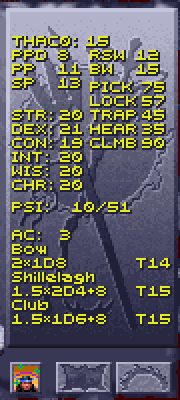
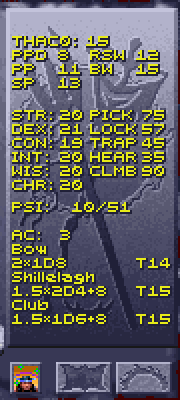
Fresh THAC0 and saves on every redraw, thief skills level with STR, Options tab
Before the inventory or View Character screen is drawn, DSCLOG (now DSCLOGvB)
asks the Ledger to bring the party's THAC0 and saves up to date and waits for
the answer (half a second at most, and only while the Ledger is running), so
putting on a ring or readying a weapon shows in the same redraw. The thief
skills sit level with STR to WIS. The Ledger's switches move to an Options tab
(Alt+O), leaving the Dice log tab to the log.

Claude-Session: https://claude.ai/code/session_01BNiWkhyZSJPYsN3zRrweVp

Changed region(s): [[0.5, 0.18, 0.9444, 0.45]]

diff --git a/darksun-companion/dscompanion/viewer.py b/darksun-companion/dscompanion/viewer.py
@@ -133,32 +133,9 @@ class Viewer:
         ttk.Button(row, text="Clear", command=lambda: self.dice_text.delete("1.0", "end")).pack(side="right")
         ttk.Button(row, text="Save...", command=lambda: self.save_text(self.dice_text, "dice log")).pack(
             side="right", padx=4)
-        self.show_all = tk.BooleanVar(value=False)
-        ttk.Checkbutton(dice, text="Show unlabelled rolls", variable=self.show_all).pack(anchor="w", pady=(4, 0))
-        # the indented lines under a roll (what a THAC0 or save was made of); hiding them leaves
-        # the rolls, results, turns and HP
-        self.show_details = tk.BooleanVar(value=True)
-        ttk.Checkbutton(dice, text="Show details (the sums behind each roll)", variable=self.show_details,
-                        command=lambda: self.dice_text.tag_configure("detail", elide=not self.show_details.get())
-                        ).pack(anchor="w", pady=(4, 0))
-        # the game's own window, at the end of each turn in a fight: that turn's rolls
-        settings = launch.load_settings()
-        self.popups = tk.BooleanVar(value=bool(settings.get("turn_popups", True)))
-        ttk.Checkbutton(dice, text="Show each turn's rolls in the game (click Continue to go on)",
-                        variable=self.popups, command=self._popups_changed).pack(anchor="w", pady=(4, 0))
-        self.popup_detail = tk.BooleanVar(value=settings.get("turn_popups_detail", True))
-        ttk.Checkbutton(dice, text="... in detail, as in the log (MORE shows the next lines)",
-                        variable=self.popup_detail, command=self._popups_changed).pack(anchor="w", padx=(20, 0))
-        # the game's Look box, on a monster in a fight: what hurts it, then all of it in a window
-        self.monster_info = tk.BooleanVar(value=bool(settings.get("monster_info", True)))
-        ttk.Checkbutton(dice, text="Describe monsters when you Look at them in a fight (defences, then a window)",
-                        variable=self.monster_info, command=self._popups_changed).pack(anchor="w", pady=(4, 0))
-        # the companion's own item: a Ring +1 on the dead prisoner in the arena (ring.py)
-        self.arena_ring = tk.BooleanVar(value=bool(settings.get("arena_ring", True)))
-        ttk.Checkbutton(dice, text="Put a Ring +1 (+1 AC, +1 on saves) on the dead prisoner in the arena",
-                        variable=self.arena_ring, command=self._popups_changed).pack(anchor="w", pady=(4, 0))
+        # (the switches are on the Options tab, leaving this one to the log)
         self.dice_status = tk.StringVar(value="Waiting for the game...")
-        ttk.Label(dice, textvariable=self.dice_status).pack(fill="x", pady=(4, 0))
+        ttk.Label(row, textvariable=self.dice_status).pack(side="left", fill="x")
         # the round's order stays here while the log scrolls on: who acts now, who is still to come
         self.round_line = tk.StringVar(value="")
         self.round_label = ttk.Label(dice, textvariable=self.round_line, style="Status.TLabel", wraplength=900,
@@ -280,7 +257,41 @@ class Viewer:
         self.hex.tag_configure("selected", background=theme.PSI_BLUE, foreground=theme.SHADOW)
         self.hex.bind("<Button-1>", self.on_hex_click)
 
+        self._build_options(tabs)
         self._apply_layout()
+
+    def _build_options(self, tabs: ttk.Notebook) -> None:
+        """The Options tab: what the dice log shows, and what the Ledger adds to the game."""
+        options = ttk.Frame(tabs, padding=6)
+        tabs.add(options, text="Options", underline=0)
+        settings = launch.load_settings()
+        log = ttk.LabelFrame(options, text="Dice log", padding=6)
+        log.pack(fill="x")
+        self.show_all = tk.BooleanVar(value=False)
+        ttk.Checkbutton(log, text="Show unlabelled rolls", variable=self.show_all).pack(anchor="w")
+        # the indented lines under a roll (what a THAC0 or save was made of); hiding them leaves
+        # the rolls, results, turns and HP
+        self.show_details = tk.BooleanVar(value=True)
+        ttk.Checkbutton(log, text="Show details (the sums behind each roll)", variable=self.show_details,
+                        command=lambda: self.dice_text.tag_configure("detail", elide=not self.show_details.get())
+                        ).pack(anchor="w", pady=(4, 0))
+        in_game = ttk.LabelFrame(options, text="In the game (when started with the dice log)", padding=6)
+        in_game.pack(fill="x", pady=(8, 0))
+        # the game's own window, at the end of each turn in a fight: that turn's rolls
+        self.popups = tk.BooleanVar(value=bool(settings.get("turn_popups", True)))
+        ttk.Checkbutton(in_game, text="Show each turn's rolls in the game (click Continue to go on)",
+                        variable=self.popups, command=self._popups_changed).pack(anchor="w")
+        self.popup_detail = tk.BooleanVar(value=settings.get("turn_popups_detail", True))
+        ttk.Checkbutton(in_game, text="... in detail, as in the log (MORE shows the next lines)",
+                        variable=self.popup_detail, command=self._popups_changed).pack(anchor="w", padx=(20, 0))
+        # the game's Look box, on a monster in a fight: what hurts it, then all of it in a window
+        self.monster_info = tk.BooleanVar(value=bool(settings.get("monster_info", True)))
+        ttk.Checkbutton(in_game, text="Describe monsters when you Look at them in a fight (defences, then a window)",
+                        variable=self.monster_info, command=self._popups_changed).pack(anchor="w", pady=(4, 0))
+        # the companion's own item: a Ring +1 on the dead prisoner in the arena (ring.py)
+        self.arena_ring = tk.BooleanVar(value=bool(settings.get("arena_ring", True)))
+        ttk.Checkbutton(in_game, text="Put a Ring +1 (+1 AC, +1 on saves) on the dead prisoner in the arena",
+                        variable=self.arena_ring, command=self._popups_changed).pack(anchor="w", pady=(4, 0))
 
     def _slot_box(self, parent) -> ttk.Combobox:
         box = ttk.Combobox(parent, width=3, state="readonly")

diff --git a/darksun-companion/dscompanion/dicelog.py b/darksun-companion/dscompanion/dicelog.py
@@ -30,7 +30,7 @@ from .guestmem import GuestMemory
 from .textlog import KIND_MESSAGE, KIND_PORTRAIT, KIND_TEXT, Dialogue, DialogueEntry, TextBuffer
 from .tracker import PartyTracker
 
-HDR_SIG = b"DSCLOGvA"
+HDR_SIG = b"DSCLOGvB"
 # DSCLOG's header: the in-game turn summaries (see PROBE_TURN in dos/dsclog.asm)
 TSR_TURN_SEQ, TSR_REPLY_SEQ, TSR_POPUPS, TSR_MSG_OFF, TSR_ENDED, TSR_HDR_OFF = 138, 140, 142, 144, 146, 20
 MSG_SIZE = 900
@@ -44,7 +44,7 @@ SLOTS_LINES = 3  # lines of spell slots the USE screen has room for
 TSR_LOOK_SEQ, TSR_LOOK_REPLY, TSR_LOOK_WHO, TSR_LOOK_OFF, TSR_LOOK_FULL_OFF, TSR_LOOK_ON = 150, 152, 154, 156, 158, 160
 LOOK_SIZE, LOOK_FULL_SIZE = 80, 700
 # ... and the party's THAC0 and saves as they stand now, for the game's screens (see STATS)
-TSR_STATS_OFF, TSR_STATS_STAMP, STATS_SIZE = 162, 164, 20
+TSR_STATS_OFF, TSR_STATS_STAMP, TSR_STATS_REQ, TSR_STATS_REPLY, STATS_SIZE = 162, 164, 166, 168, 20
 BIOS_TIMER = 0x46C
 SLOT_KINDS = {"Wizard": "WIZ", "Priest": "PRI"}
 RAND_PATCHED = b"\xcd\x60"  # INT 60h at the start of rand() in DSUNLOG.EXE
@@ -514,6 +514,16 @@ class DiceLog:
         out += struct.pack("<3b", *([clamp(h.thac0) for h in weapons] + [0] * (3 - len(weapons))))
         return out.ljust(STATS_SIZE, b"\0")
 
+    def _answer_stats(self) -> None:
+        """A game screen is about to show THAC0 and the saves: bring them up to date first (the
+        game waits for this, so an item just put on counts)."""
+        if self.tsr_hdr is None:
+            return
+        req = self.guest.read(self.tsr_hdr + TSR_STATS_REQ, 2)
+        if req != self.guest.read(self.tsr_hdr + TSR_STATS_REPLY, 2):
+            self._write_stats()
+            self.guest.write(self.tsr_hdr + TSR_STATS_REPLY, req)
+
     def _write_stats(self) -> None:
         """Keep DSCLOG's copy of the party's THAC0 and saves current, and say it is."""
         if self.tsr_hdr is None:
@@ -632,6 +642,7 @@ class DiceLog:
             # first, for the end of the summary
             out += self.initiative_lines()
         self._answer_turn()  # after the entries: they hold the turn's last attack
+        self._answer_stats()
         out += self._answer_look()
         changes = self.hp_changes(now) + self.psp_changes()
         if not self._party_check(now):  # not while a game is loading: its records are half-filled

diff --git a/darksun-companion/README.md b/darksun-companion/README.md
@@ -102,7 +102,7 @@ Double-click **`Start Game with Dice Log.bat`** in the `darksun-companion`
 folder. It starts Shattered Lands (through GOG's own DOSBox) with the dice log
 helper loaded, and opens Templar's Ledger next to it. The game gets its
 in-game additions too: each turn's rolls shown in the game (untick **Show
-each turn's rolls in the game** on the Dice log tab to turn that off), THAC0,
+each turn's rolls in the game** on the Options tab to turn that off), THAC0,
 saves and thief skills on the inventory and View Character screens, and spell
 slots on the USE screen. Your saves are the same ones the game normally uses.
 The first time, it looks for the game in the usual GOG folders; if it can't
@@ -185,7 +185,8 @@ If more than one DOSBox is running, add `--pid <number>` (from `processes`).
 starting, whose turn it is, attack rolls, saves, spells, kills. Lines indented
 two spaces are their results (damage, HP left); lines indented four spaces are
 the details: the sums behind a THAC0, a save's modifiers, the initiative
-scores. Untick **Show details** to hide the details and keep the rest; they
+scores. Untick **Show details** (on the Options tab, with the Ledger's other
+switches) to hide the details and keep the rest; they
 come back when it's ticked again. In the window, each kind has its colour
 (hits green, misses grey, damage amber, saves blue, turns sand, rounds
 underlined with a gap above), but the words say the same thing, so nothing
@@ -611,7 +612,7 @@ are no rings or cloaks of protection, which is why the Ledger adds
 
 A ring of protection the game never had: **+1 AC and +1 on every saving
 throw** for whoever wears it. With **Put a Ring +1 (+1 AC, +1 on saves) on the
-dead prisoner in the arena** ticked on the Dice log tab (it is by default),
+dead prisoner in the arena** ticked on the Options tab (it is by default),
 the Ledger puts one in the body lying just below the Tied-up Prisoner in the
 arena, the first time the party is there with the Ledger running:
 
@@ -662,8 +663,8 @@ right-hand panel, drawn by the game's text routine so they look like the rest:
   petrification/polymorph, `BW` breath weapon, `SP` spell;
 - at the right of each weapon's damage line, the THAC0 with that weapon
   (`T14`);
-- right of the abilities, for a character with thief levels, the five
-  **thief skills** the game ever rolls: `PICK` pockets, open `LOCK`s,
+- right of the abilities, level with STR to WIS, for a character with thief
+  levels, the five **thief skills** the game ever rolls: `PICK` pockets, open `LOCK`s,
   find/remove `TRAP`s, `HEAR` noise, `CLMB` walls (move silently, hide in
   shadows and read languages are never checked; see Where the game rolls
   them). Not below the weapons: three weapons fill the panel down to its
@@ -676,9 +677,12 @@ above.
 ![The View Character screen with THAC0 and the saves added, as they stand under Bless](docs/view-character.png)
 
 They're the numbers as they stand now, worked out by the Ledger the way the
-game's own attack and saving throw routines do, and they change as you
-change weapons or rings or a spell starts or ends (redraw the screen, by
-picking the portrait again, to see the change):
+game's own attack and saving throw routines do. Each time the game draws one
+of these screens, the helper has the Ledger bring them up to date first (the
+game waits a moment for it), so putting on a ring or readying another weapon
+shows at once. Spells start and end as time passes in the game, which it
+doesn't while these screens are open; open the screen again to see such a
+change.
 
 - **THAC0**: the character's THAC0 less STR's to-hit adjustment (DEX's for a
   missile weapon), the weapon's plus (or, for a plain wooden, bone, stone or
@@ -708,7 +712,8 @@ Character screen does the same through `INT F3h`, called while it draws the
 character's panel, and the routine that lists the weapons through `INT FAh`
 after each one. The Ledger keeps the numbers in the helper's memory, with the
 time it last did: older than 5 seconds, the helper shows the sheet's numbers
-instead. Nothing else in the game changes.
+instead. Before a screen is drawn, the helper asks the Ledger to update them
+and waits for its answer, half a second at most. Nothing else in the game changes.
 
 ### In the game: spell slots on the USE screen
 
@@ -738,7 +743,7 @@ and stay, while Templar's Ledger (or its command-line dice log) is running.
 
 ### In the game: each turn's rolls
 
-With **Show each turn's rolls in the game** ticked on the Dice log tab (the
+With **Show each turn's rolls in the game** ticked on the Options tab (the
 default; or `python -m dscompanion dicelog --popups`), the game stops at the end
 of every turn in a fight in which someone attacked or cast a spell, and shows
 that turn's rolls in its own dialogue window, with **Continue** to go on. They
@@ -790,7 +795,7 @@ the box shows everything in the game's dialogue window: the weapons it needs,
 the damage it's immune to or takes half of, spells that don't work on it, and
 what its hits do besides damage. The dice log gets the same lines (`Look:
 ...`). Untick **Describe monsters when you Look at them in a fight** on the
-Dice log tab to turn this off.
+Options tab to turn this off.
 
 ![The Look box on the arena's Defiler: HP, AC and THAC0 added](docs/look-box.png)
 
@@ -946,8 +951,8 @@ WCAG 2.0 level AA:
   **Ctrl 0** (back to normal), enlarge or shrink all text up to 2.5 times.
 - **Keyboard:** Tab and Shift+Tab move between controls, and the one with the
   keyboard focus is outlined in yellow. **Ctrl+Tab** switches tabs, as do
-  **Alt+L** (Dice log), **Alt+I** (Dialogue) and **Alt+M** (Memory tools),
-  **Alt+S** (Spells), and on the party side **Alt+C** (Characters) and
+  **Alt+L** (Dice log), **Alt+I** (Dialogue), **Alt+S** (Spells), **Alt+M**
+  (Memory tools) and **Alt+O** (Options), and on the party side **Alt+C** (Characters) and
   **Alt+A** (All fields).
 - **The game's font** is only used for the title: it's a 9-pixel bitmap
   font, fine enlarged as a heading but harder to read than ordinary text,
@@ -979,6 +984,12 @@ The party pane has two tabs:
   with the mouse wheel, or Tab to the cards and use the arrow and Page keys.
 - **All fields** (Alt+A): every field the layout maps, in a table, with the
   spell slots as its last two rows.
+
+The other side has the **Dice log**, **Dialogue**, **Spells** and **Memory
+tools** tabs, and **Options** (Alt+O) with the Ledger's switches: what the
+dice log shows (unlabelled rolls, details) and what it adds to the game (each
+turn's rolls, monster descriptions, the Ring +1). The switches for the game
+are remembered for next time.
 
 **Spell slots.** `Priest spells left: 1st 5/5, 2nd 3/3, 3rd 2/2, 4th 1/1`
 means five first-level priest spells can still be cast out of five, and so
